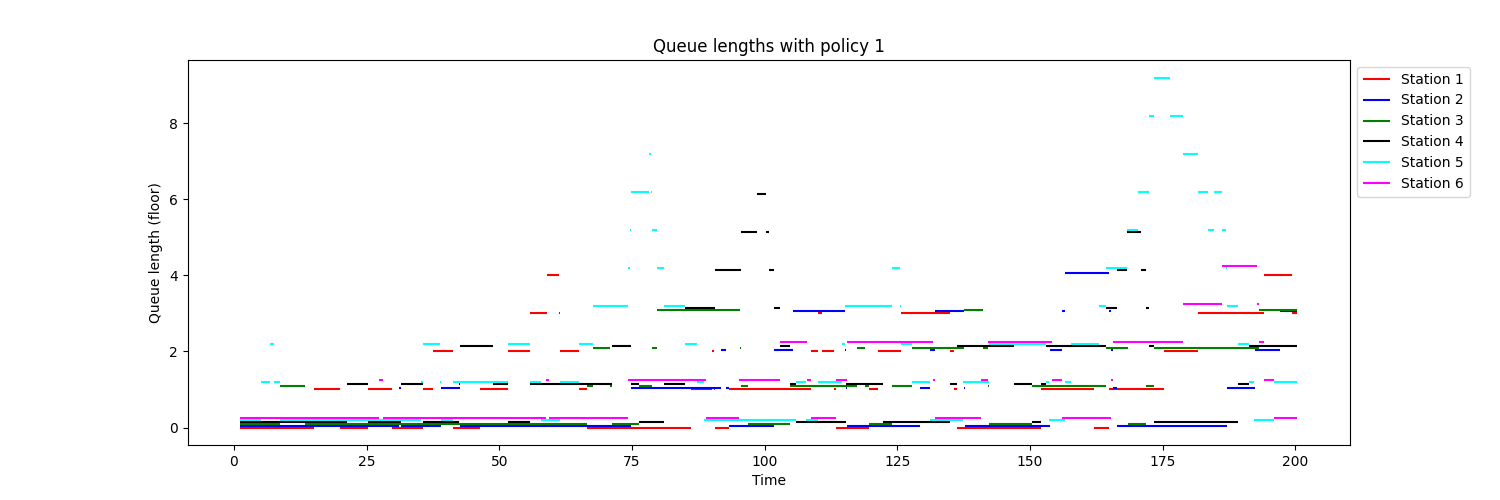
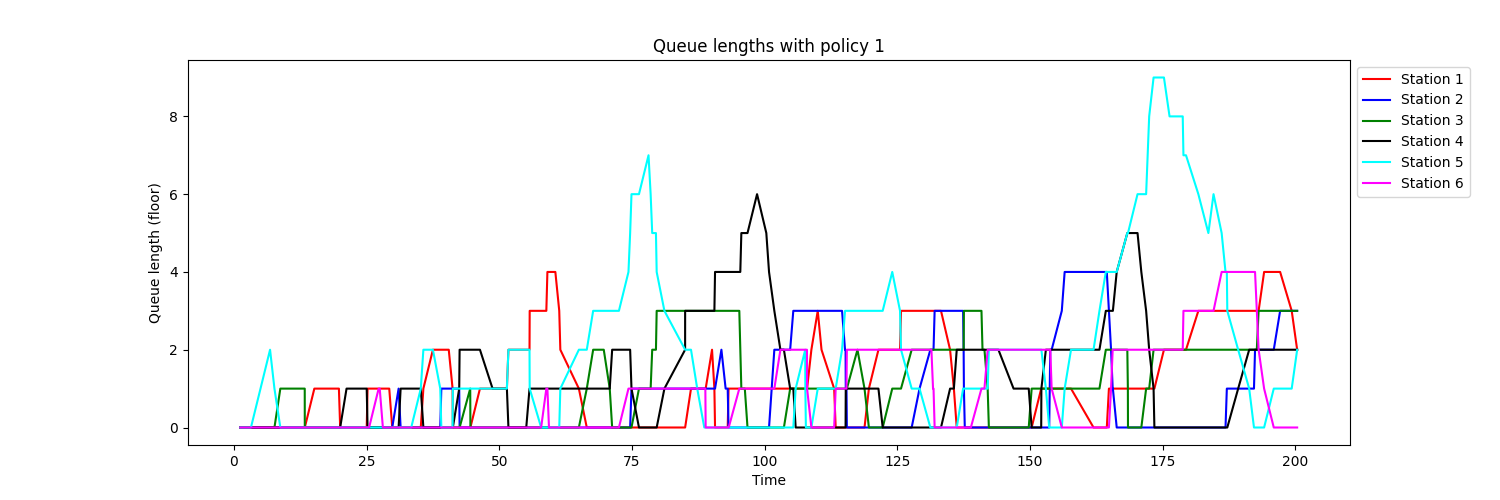
change plot

diff --git a/Assignment 2/main.py b/Assignment 2/main.py
@@ -386,16 +386,6 @@ def generate_q_paths():
     steady_state_boundary = StationResults.STEADY_STATE_BOUNDARY
     StationResults.STEADY_STATE_BOUNDARY = 0
 
-    colors = [
-        ['red'],
-        ['blue'],
-        ['green'],
-        ['black'],
-        ['cyan'],
-        ['magenta']]
-
-    jitter = 0.05
-
     for i in range(3):
         simulation = [Policy1, Policy2, Policy3][i](n_stations=parameters.n, duration=200)
         simulation.run()
@@ -403,19 +393,12 @@ def generate_q_paths():
 
         for s in range(parameters.n):
             station = simulation.stations[s]
+            color = ['red', 'blue', 'green', 'black', 'cyan', 'magenta'][s]
 
             lengths = station.results.queue_lengths
             times = station.results.queue_length_times
 
-            # Drop last value, because we don't know until what time the queue
-            # will have its last measured queue-length
-            y = lengths[:-1]
-            xmin = times[:-1]
-            _, *xmax = times
-
-            # apply some small offset to prevent overlapping
-            y = [length + s * jitter for length in y]
-            plt.hlines(y, xmin, xmax, label=f'Station {s + 1}', colors=colors[s])
+            plt.plot(times, lengths, color=color, label=f'Station {s+1}')
 
         plt.xlabel('Time')
         plt.ylabel('Queue length (floor)')
